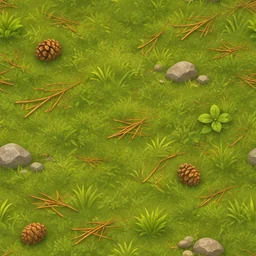
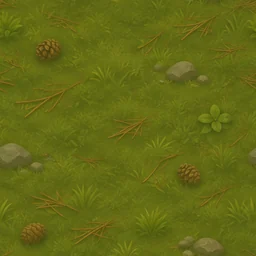
Hayalet Avcıları: Dünya Turu zeminleri sakinleştirildi
Kullanıcı: 'Türkiye zemini çok göz alıyor ... harita zeminlerini daha çevre
ile uyumlu hale getirelim'. Ölçüm: Dünya Turu zeminleri ChatGPT'den parlak
(ortalama parlaklık 120-180) ve çok desenli (sapma 12-29) geliyordu; oyunun
renk dengesi koyu zemine kurulu (klasik temalar 35 / 5-10).

gorsel_kes zemin_sakinlestir: her aile zemini rengini ve tonunu koruyarak
ortalama parlaklık 95'e ve en çok 9 desen sapmasına çekilir (ZEMIN_HEDEF;
eski tek dokuya özel ZEMIN_SOLUK kaldırıldı). Sonuç: 10 zeminin hepsi 95 /
4,6-7,0; avcı ve hayaletler zeminden net ayrılıyor.

Claude-Session: https://claude.ai/code/session_01JEr5mLKiYLf7SjTYh6sMfB

diff --git a/hayalet-avcilari/araclar/gorsel_kes.py b/hayalet-avcilari/araclar/gorsel_kes.py
@@ -826,8 +826,23 @@ DOKU_PAFTALARI = {
             ('aile-LA-zemin', 'iki'), ('nehir-doku', 'dikey')],
     'R42': [None, None, None, None, None, ('dere-su', 'iki')],
 }
-# Fazla kontrastlı zemin dokuları (karakterler okunur kalsın): ortalama renge doğru karıştırma oranı
-ZEMIN_SOLUK = {'aile-KS-zemin': 0.5}
+# Dünya Turu zeminleri ChatGPT'den parlak (120-180) ve çok desenli (sapma 12-29) geliyor; oyunun renk dengesi koyu zemine
+# kurulu (klasik temalar 35 / 5-10). Her aile zemini rengini koruyarak bu parlaklığa ve en çok bu desen sapmasına çekilir.
+ZEMIN_HEDEF = (95, 9)  # (ortalama parlaklık, en büyük parlaklık sapması), 0-255
+
+
+def zemin_sakinlestir(im):
+    """Zemin dokusunu ZEMIN_HEDEF'e çeker: desen sapması (parlaklık) en çok hedef kadar, ortalama parlaklık hedefte; renk tonu korunur."""
+    import numpy as np
+    a = np.asarray(im.convert('RGB'), dtype=np.float32)
+    lum = a @ np.array([0.299, 0.587, 0.114], dtype=np.float32)
+    m, sd = float(lum.mean()), float(lum.std()) or 1.0
+    hedef_m, hedef_sd = ZEMIN_HEDEF
+    k = min(1.0, hedef_sd / sd)
+    ort = a.reshape(-1, 3).mean(axis=0)
+    a = ort + (a - ort) * k            # deseni sakinleştir (ortalama renge yaklaştır)
+    a = a * (hedef_m / max(1.0, m))    # parlaklığı hedefe çek (ton ve doygunluk oranı korunur)
+    return Image.fromarray(np.clip(a, 0, 255).astype(np.uint8))
 
 
 def doku_hucreleri(liste):
@@ -849,10 +864,8 @@ def doku_hucreleri(liste):
             if yon == 'iki':
                 hucre = dikissiz_dikey(hucre.transpose(Image.ROTATE_90)).transpose(Image.ROTATE_270)
             hucre = hucre.resize((256, 256), Image.LANCZOS)
-            if anahtar in ZEMIN_SOLUK:  # kontrastı düşür: dokunun ortalama rengine doğru karıştır
-                from PIL import ImageStat
-                ort = tuple(round(v) for v in ImageStat.Stat(hucre).mean)
-                hucre = Image.blend(hucre, Image.new('RGB', hucre.size, ort), ZEMIN_SOLUK[anahtar])
+            if anahtar.startswith('aile-') and anahtar.endswith('-zemin'):
+                hucre = zemin_sakinlestir(hucre)
             hucre.save(os.path.join(CIKTI, f'{anahtar}.webp'), 'WEBP', quality=86, method=6)
             liste[anahtar] = [256, 256]
         print(f'✓ {pafta} (doku)')
